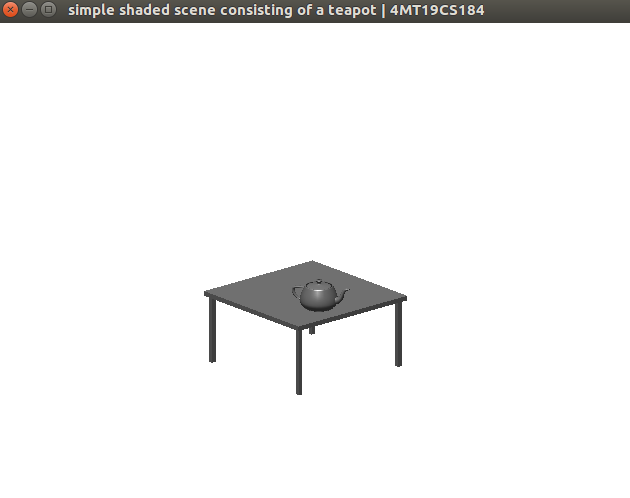
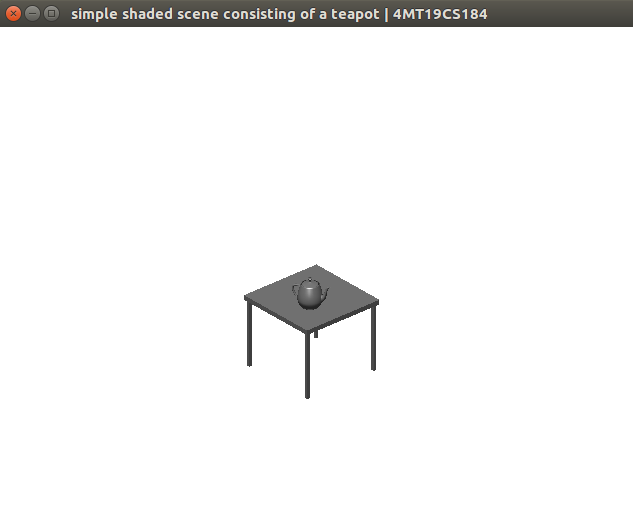
Add files via upload

Changed region(s): [[0.3016, 0.512, 0.6635, 0.8133], [0.0, 0.0, 1.0, 0.0602]]

diff --git a/lab8.c b/lab8.c
@@ -1,0 +1,84 @@
+#include<stdio.h>
+#include<GL/glut.h>
+void tableLeg(double thick, double len)
+{
+	glPushMatrix();
+	glTranslated(0,len/2,0);
+	glScaled(thick,len ,thick);
+	glutSolidCube(1.0);
+	glPopMatrix();
+}
+void table(double topWid,double topThick, double legThick, double legLen)
+{
+	glPushMatrix();
+	glTranslated(0,legLen,0);
+	glScaled(topWid, topThick, topWid);
+	glutSolidCube(1.0);
+	glPopMatrix();
+	double dist= 0.95*topWid/2.0-legThick/2.0;
+	glPushMatrix();
+	glTranslated(dist, 0,dist);
+	tableLeg(legThick, legLen);
+	glTranslated(0.0,0.0,-2*dist);
+	tableLeg(legThick,legLen);
+	glTranslated(-2*dist,0,2*dist);
+	tableLeg(legThick,legLen);
+	glTranslated(0,0,-2*dist);
+	tableLeg(legThick,legLen);
+	glPopMatrix();
+}
+void displaySolid(void)
+{
+	GLfloat mat_ambient[] = {0.7f,0.7f,0.7f,1.0f};
+	GLfloat mat_diffuse[] = {0.5f,0.5f,0.5f,1.0f};
+	GLfloat mat_specular[] = {1.0f,1.0f,1.0f,1.0f};
+	GLfloat mat_shininess[] = {50.0f};
+	glMaterialfv(GL_FRONT, GL_AMBIENT, mat_ambient);
+	glMaterialfv(GL_FRONT, GL_DIFFUSE, mat_diffuse);
+	glMaterialfv(GL_FRONT, GL_SPECULAR, mat_specular);
+	glMaterialfv(GL_FRONT, GL_SHININESS, mat_shininess);
+	
+	GLfloat lightIntensity[] = {0.7f,0.7f,0.7f,0.7f,};
+	GLfloat light_position[] = {2.0f,6.0f,3.0f,0.0f,};
+	glLightfv(GL_LIGHT0,GL_POSITION,light_position);
+	glLightfv(GL_LIGHT0,GL_DIFFUSE,lightIntensity);
+	glMatrixMode(GL_PROJECTION);
+	glLoadIdentity();
+	
+	glOrtho(-2,+2,-1,+1,0.1,100.0);
+	glMatrixMode(GL_MODELVIEW);
+	glLoadIdentity();
+	gluLookAt(2.3,1.3,2.0,0.0,0.25,0.0,0.0,1.0,0.0);
+	glClear(GL_COLOR_BUFFER_BIT|GL_DEPTH_BUFFER_BIT);
+	glPushMatrix();
+	glTranslated(0.5,0.38,0.5);
+	glRotated(30,0,1,0);
+	glutSolidTeapot(0.08);
+	glPopMatrix();
+	
+	glPushMatrix();
+	glTranslated(0.4,0,0.4);
+	table(0.6,0.02,0.02,0.3);
+	glPopMatrix();
+	glFlush();
+}
+int main(int argc, char *argv[])
+{
+	glutInit(&argc, argv);
+	glutInitDisplayMode(GLUT_SINGLE | GLUT_RGB | GLUT_DEPTH);
+	glutInitWindowSize(640,480);
+	glutInitWindowPosition(100,100);
+	glutCreateWindow("simple shaded scene consisting of a teapot | 4MT19CS184");
+	glutDisplayFunc(displaySolid);
+	glEnable(GL_LIGHTING);
+	glEnable(GL_LIGHT0);
+	glShadeModel(GL_SMOOTH);
+	glEnable(GL_DEPTH_TEST);
+	glEnable(GL_NORMALIZE);
+	glClearColor(1,1,1,0.0);
+	glViewport(0,0,640,480);
+	glutMainLoop();
+}
+			
+
+
